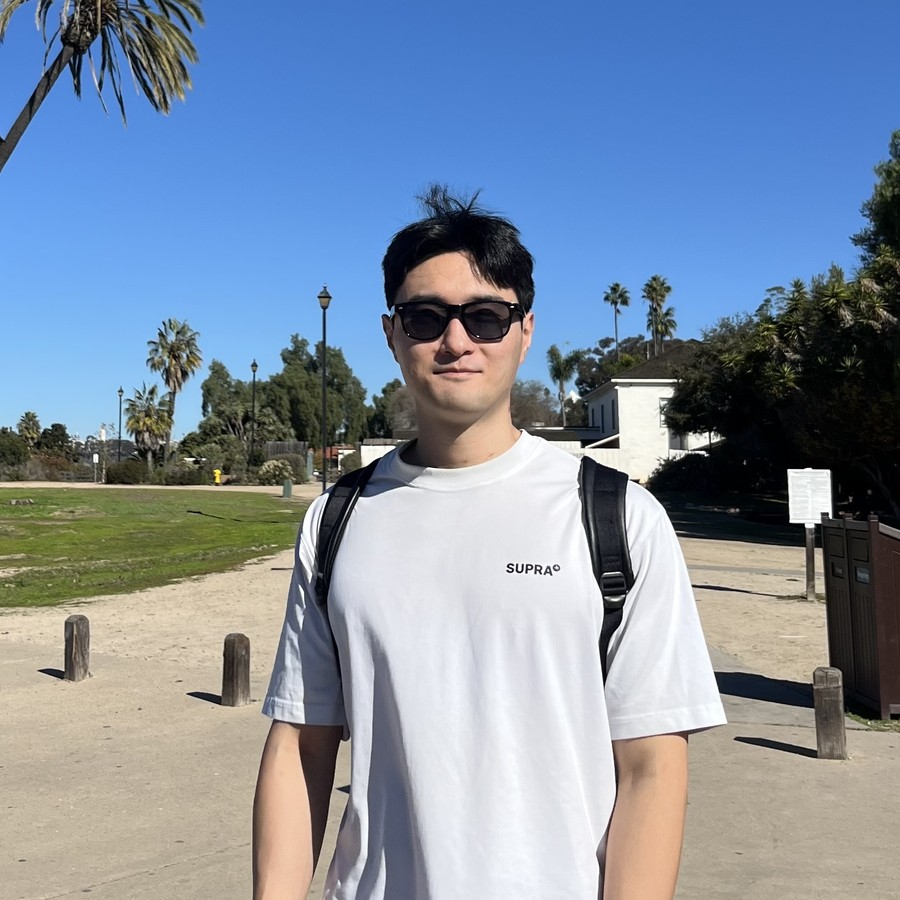
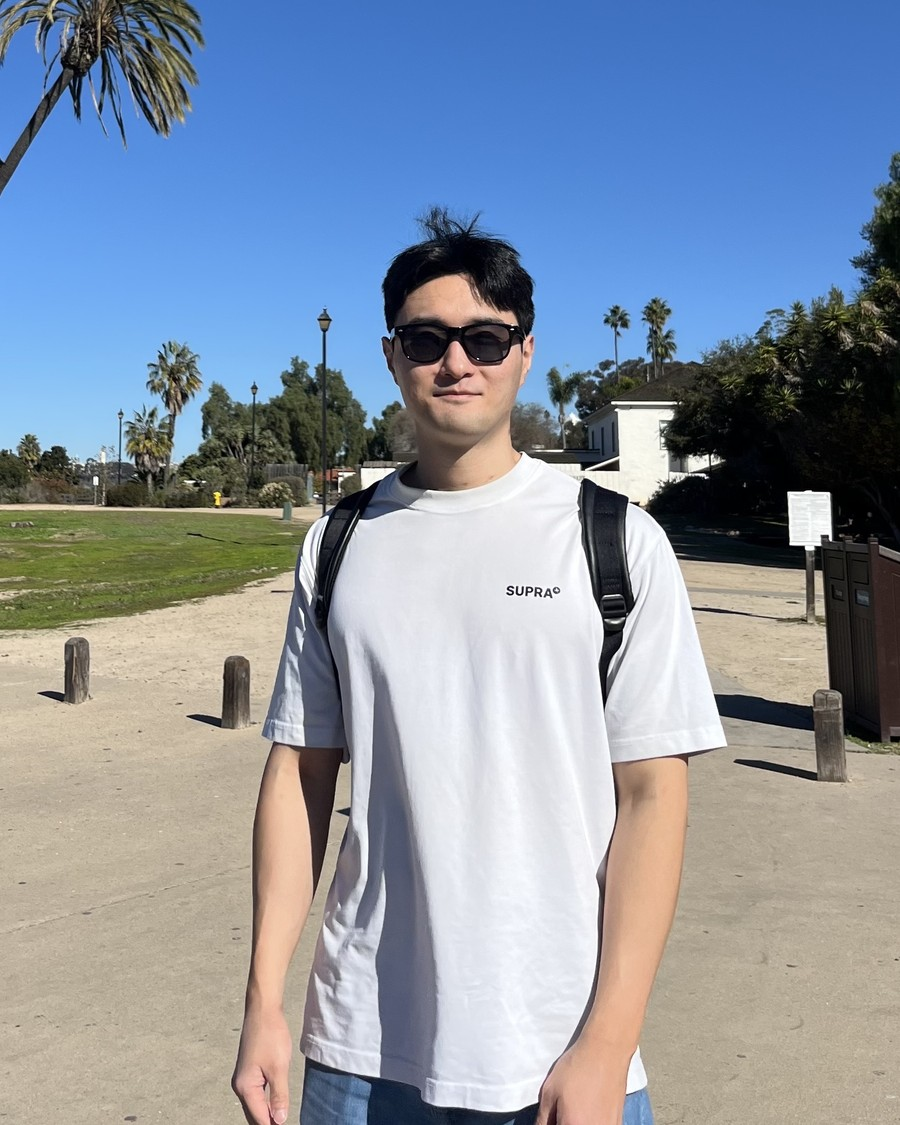
Update profile photo to a vertical oval

diff --git a/homepage/index.html b/homepage/index.html
@@ -60,7 +60,7 @@
                 </p>
               </td>
               <td style="padding:2.5%;width:37%;max-width:37%">
-                <a href="images/profile.jpg"><img style="width:100%;max-width:100%;object-fit:cover;border-radius:50%;" alt="profile photo" src="images/profile.jpg"></a>
+                <a href="images/profile.jpg"><img style="width:100%;max-width:100%;aspect-ratio:4/5;object-fit:cover;border-radius:50%;" alt="profile photo" src="images/profile.jpg"></a>
               </td>
             </tr>
           </tbody></table>
